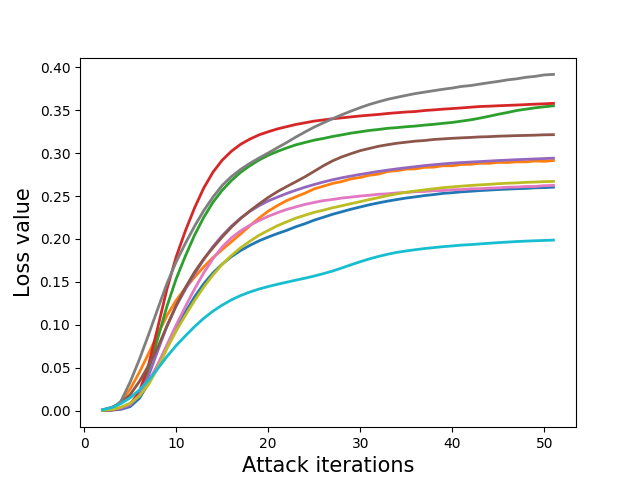
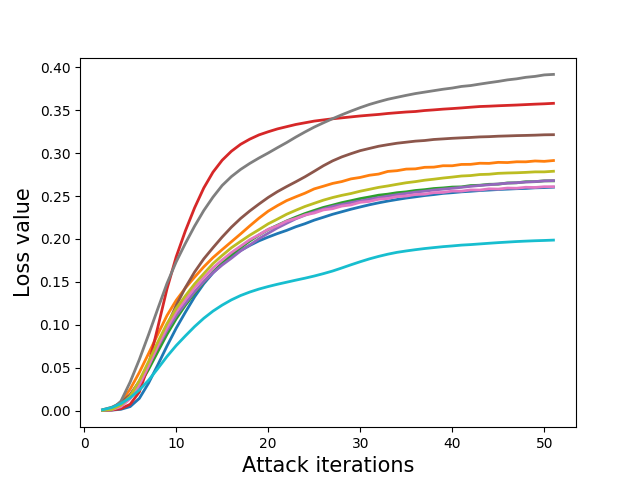
update graph

diff --git a/draw_natural_training.py b/draw_natural_training.py
@@ -1,0 +1,46 @@
+import matplotlib.pyplot as plt
+import numpy as np
+import seaborn as sns
+import argparse
+
+parser = argparse.ArgumentParser(description='CIFAR ACCURACY')
+
+parser.add_argument('--path', default='natural-training-log.txt',
+                    help='model name.')
+
+args = parser.parse_args()
+
+# log_file = open(args.log_path, 'w')
+
+if __name__ == '__main__':
+
+    plt.switch_backend('agg')
+
+    log1 = open(args.path)
+
+    label1 = "Natral"
+
+    data1 = []
+
+    log_lines1 = log1.readlines()
+
+    for i in range(len(log_lines1)):
+        data1.append([eval(j) for j in log_lines1[i].split(' ')])
+
+    print(len(data1))
+
+    x = np.array([i[0] for i in data1]) + 1
+
+    nat_acc1 = np.array([i[1] for i in data1])
+
+    current_palette = sns.color_palette()
+
+    plt.plot(x, nat_acc1, color=current_palette[0], lw=2, label=label1)
+
+    plt.xlabel("Training iterations", fontsize=15)
+    plt.ylabel("Accuracy", fontsize=15)
+    plt.tick_params(labelsize=10)
+
+    plt.legend(fontsize='x-large')
+
+    plt.savefig('data-pic/natural-training.png')

diff --git a/draw_attack_loss.py b/draw_attack_loss.py
@@ -26,7 +26,6 @@ data7 = []
 data8 = []
 data9 = []
 data10 = []
-length = 50
 
 log_lines1 = log1.readlines()
 log_lines2 = log2.readlines()
@@ -38,7 +37,7 @@ log_lines7 = log7.readlines()
 log_lines8 = log8.readlines()
 log_lines9 = log9.readlines()
 log_lines10 = log10.readlines()
-for i in range(length):
+for i in range(len(log_lines1)):
   data1.append([eval(j) for j in log_lines1[i].split(' ')])
   data2.append([eval(j) for j in log_lines2[i].split(' ')])
   data3.append([eval(j) for j in log_lines3[i].split(' ')])
